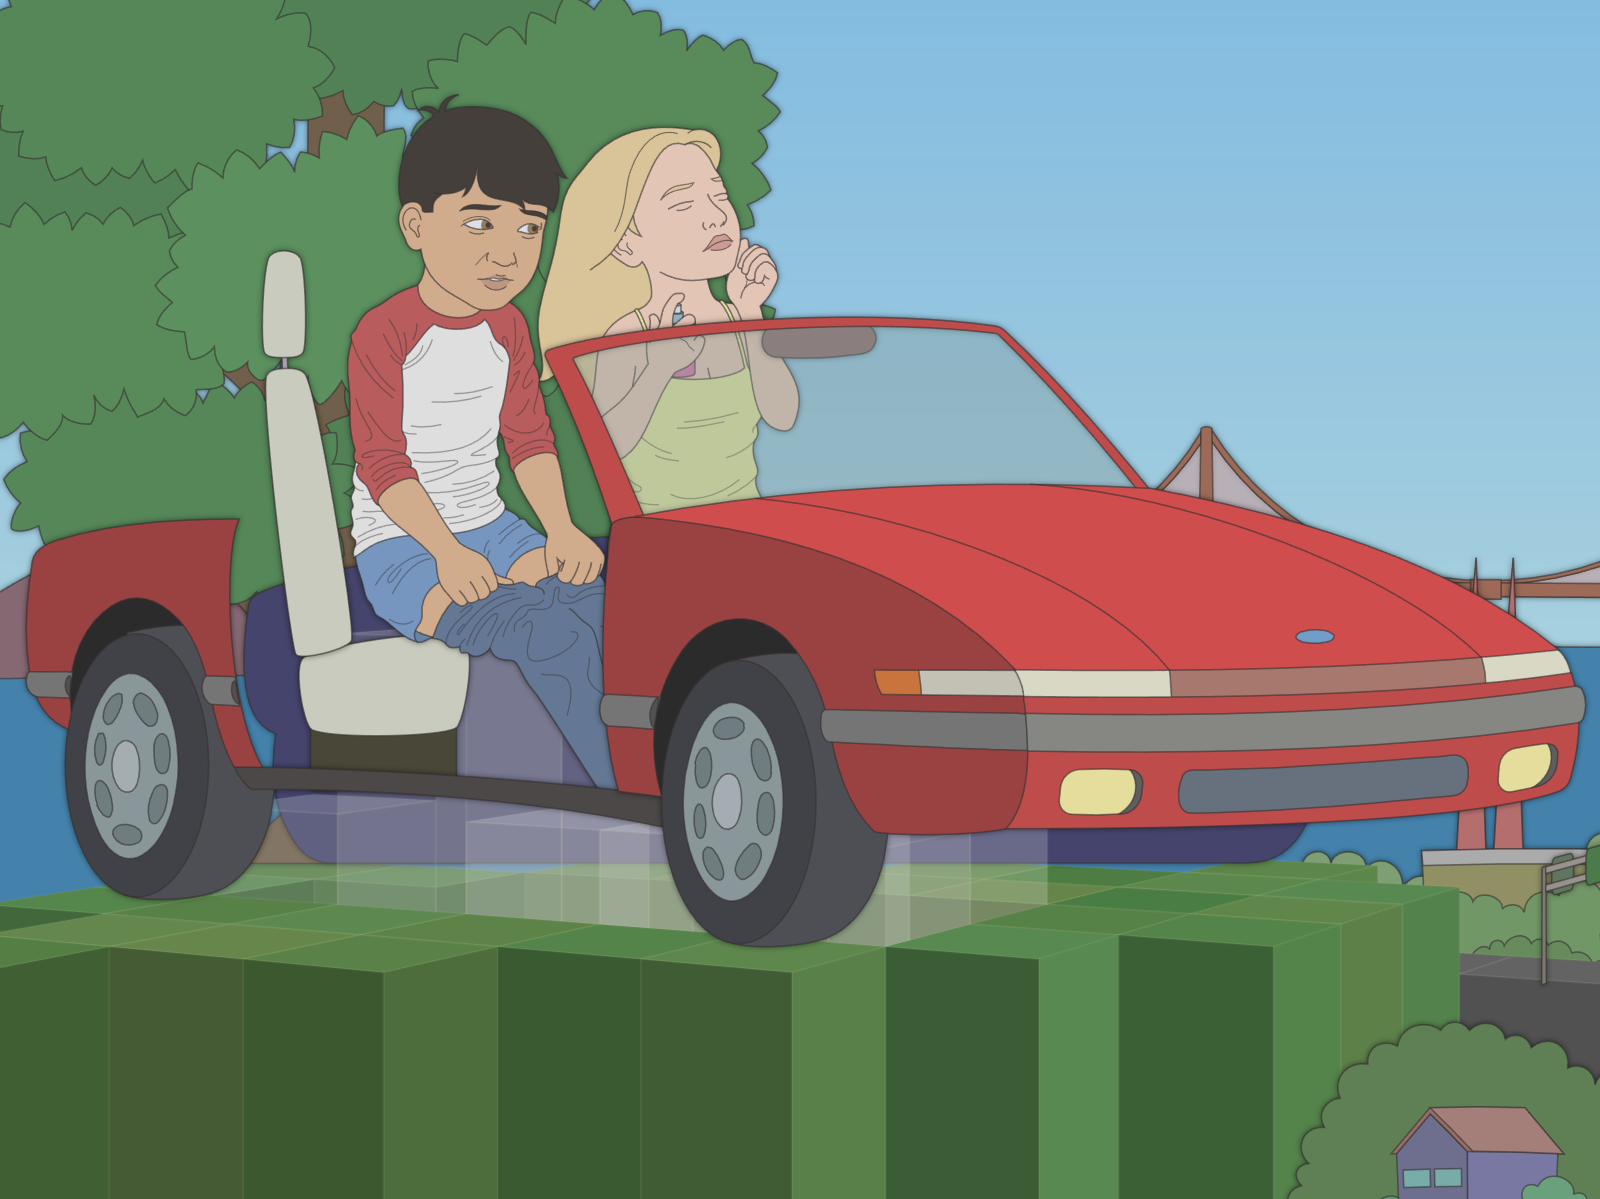
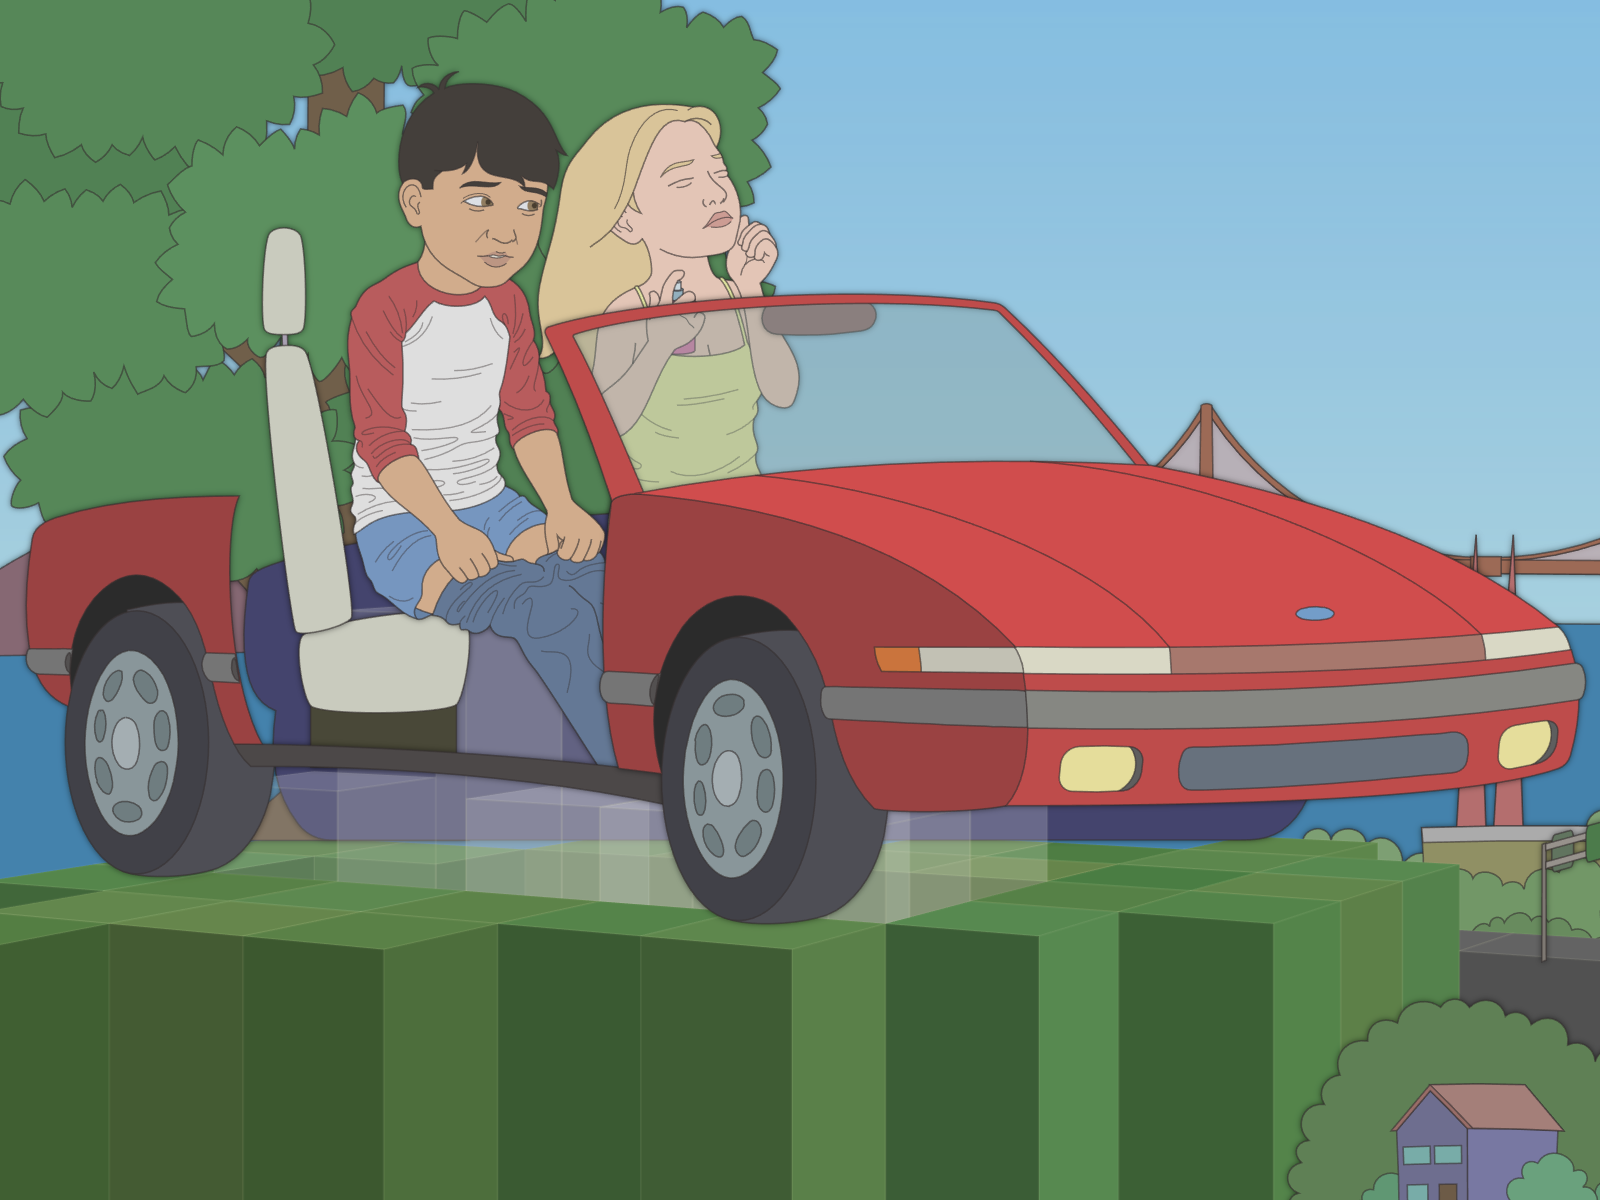
Add Facebook images.

diff --git a/app/components/Lyric/Helmet/helper.js b/app/components/Lyric/Helmet/helper.js
@@ -29,7 +29,7 @@ const getFacebookConfig = songIndex => ({
     'og:image':
         getUrl(`share/image/facebook_image/${
             getFullPathForSong(songIndex)
-        }.jpg`),
+        }.png`),
 })
 
 const getTwitterConfig = songIndex => ({

diff --git a/SOCIAL_MEDIA_WORK.md b/SOCIAL_MEDIA_WORK.md
@@ -8,6 +8,7 @@
     * Facebook
         * At least 1200 x 630
         * "Try to keep your images as close to 1.91:1 aspect ratio as possible to display the full image in News Feed without any cropping."
+        * 1600 x 840
     * Twitter
         * Square for thumbnail: 900 x 900, 1200 x 1200, or 1400 x 1400
         * 3:4 aspect ratio for background: 1600 x 1200
